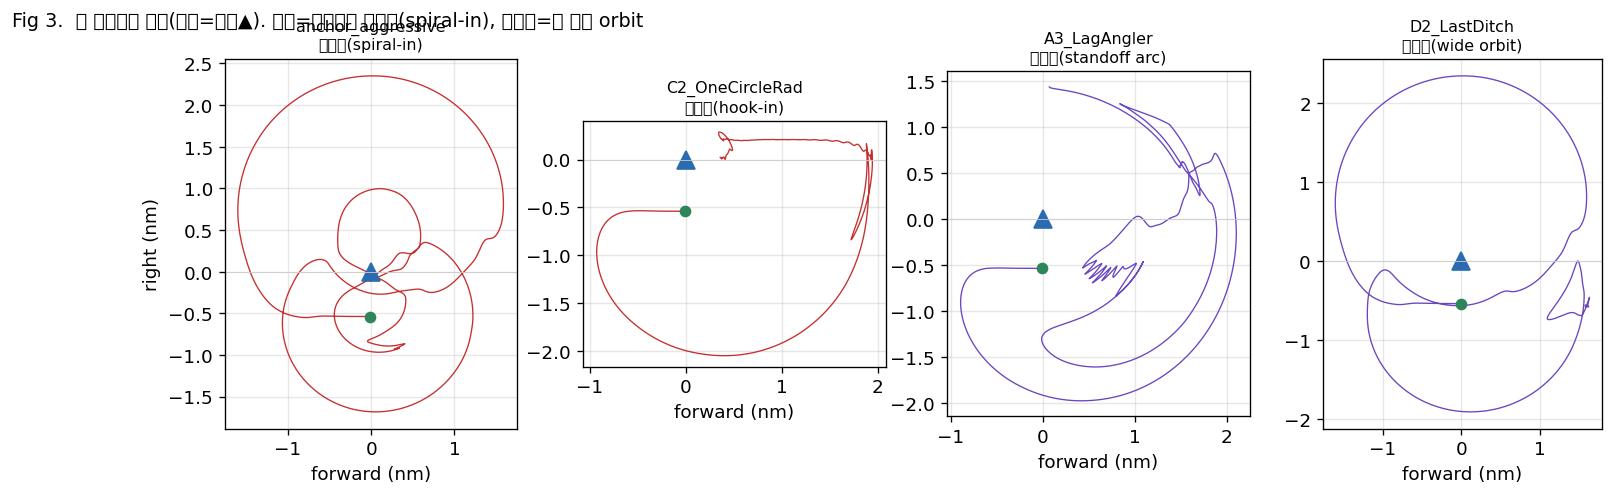
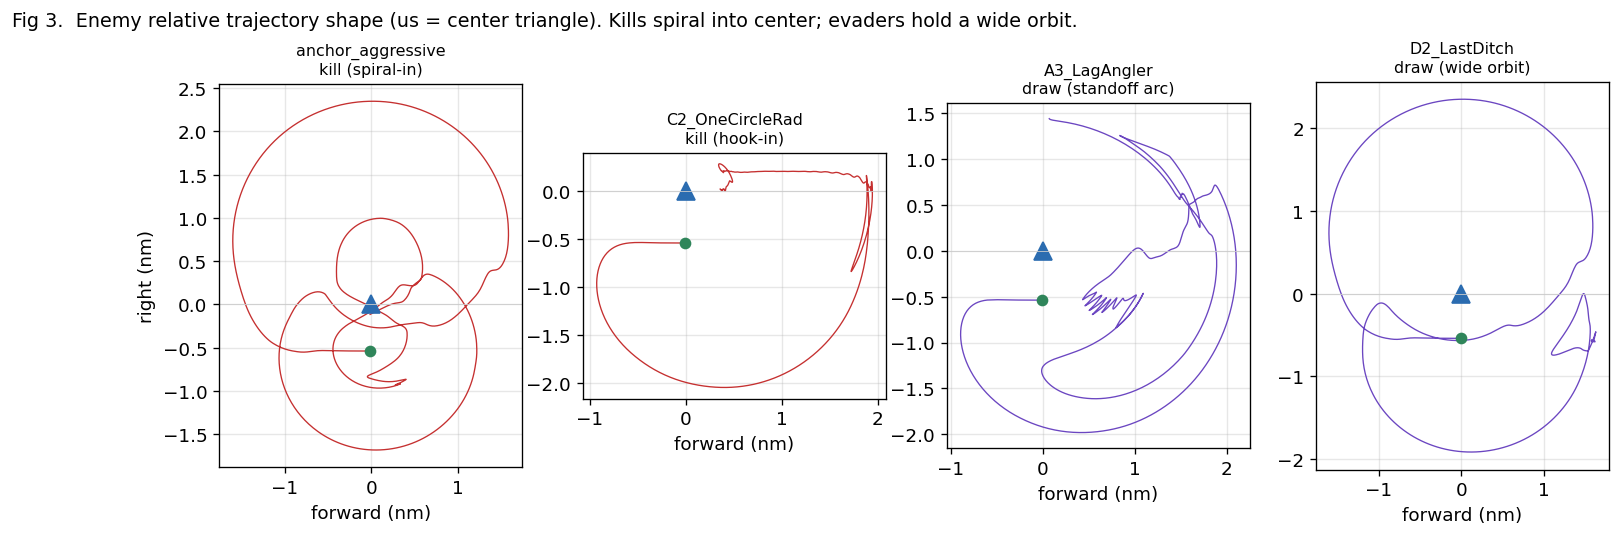
@ docs(victory): 독트린 사전·ADAPTIVE BT·cost 설계·실행 아키텍처 + 영어 그림/캡션
- §4.2.1 독트린 사전: 14개 BFM tactic 각각의 setpoint 공식(heading/속도/고도)·근거·선택조건.
- §4.2.2 ADAPTIVE BT: 5상황 soft 멤버십 수식 + virtual-point 블렌딩 + 상황별 동작 직관.
- §4.2.3 cost 설계: V=wez_margin−their_margin+0.3·energy, zero-sum 차의 이유, J_s 분해.
- §10 실행 아키텍처: runmatch 다중-rate 루프(120/20/10/60Hz), 한 틱 데이터흐름,
  우리정책(tactic_fn1)/적BT(tactic_fn2)의 자리.
- 그림 8개 라벨·제목·주석 전부 영어로 재생성(한글 tofu 제거) + 마크다운 캡션 영어화.
- 섹션 번호 정리(배경+관련연구=§2, 충돌 제거) + TOC 갱신.

@

diff --git a/tools/make_paper_figures.py b/tools/make_paper_figures.py
@@ -1,4 +1,4 @@
-"""논문 그림 생성 — docs/figures/ 에 fig1~fig8 PNG. 실데이터(궤적·D2시퀀스·결과)+스키매틱(구조·기하·ETM·deadlock).
+"""Paper figures — docs/figures/ fig1~fig8 PNG. Real-data(trajectory/D2-seq/results)+schematic. All labels in English.
 
 usage: python tools/make_paper_figures.py
 """
@@ -8,7 +8,7 @@ warnings.filterwarnings("ignore")
 import matplotlib
 matplotlib.use("Agg")
 import matplotlib.pyplot as plt
-from matplotlib.patches import FancyArrowPatch, FancyBboxPatch, Wedge, Circle, Arc
+from matplotlib.patches import FancyArrowPatch, FancyBboxPatch, Wedge, Arc
 import numpy as np
 
 HERE = os.path.dirname(os.path.dirname(os.path.abspath(__file__)))
@@ -19,135 +19,118 @@ for p in ("bt", "control", "engine"):
     sys.path.insert(0, os.path.join(NME, p))
 sys.path.insert(0, os.path.join(HERE, "tools"))
 
-plt.rcParams.update({"font.size": 11, "axes.grid": True, "grid.alpha": 0.3,
-                     "figure.dpi": 120, "savefig.bbox": "tight"})
+plt.rcParams.update({"font.size": 11, "font.family": "DejaVu Sans", "axes.grid": True,
+                     "grid.alpha": 0.3, "figure.dpi": 120, "savefig.bbox": "tight"})
 BLUE, RED, GREEN, ORANGE, PURPLE = "#2b6cb0", "#c53030", "#2f855a", "#dd6b20", "#6b46c1"
 
 
-# ─────────────────────────────────────────────────────────────────────────────
 def fig1_architecture():
-    """Fig 1 — 4계층 정책 아키텍처 블록다이어그램."""
     fig, ax = plt.subplots(figsize=(11, 4.2)); ax.axis("off"); ax.grid(False)
     ax.set_xlim(0, 11); ax.set_ylim(0, 4.2)
     boxes = [
-        (0.2, "관측 obs\n(상대기하·에너지)", "#e2e8f0"),
-        (2.1, "① 상황분류\n궤적 형상\n(reopen·aa_min·rmin)", "#bee3f8"),
-        (4.2, "② 독트린\nBFM tactic\n(pursuit/circle/ETM…)", "#c6f6d5"),
-        (6.4, "③ guidance\nsetpoint\n(ψ*, h*, V*)", "#fefcbf"),
-        (8.5, "④ autopilot\nLQR / INDI", "#fed7d7"),
+        (0.2, "Observation\n(rel. geometry,\nenergy)", "#e2e8f0"),
+        (2.1, "(1) Situation\ntrajectory shape\n(reopen, aa_min, rmin)", "#bee3f8"),
+        (4.2, "(2) Doctrine\nBFM tactic\n(pursuit/circle/ETM)", "#c6f6d5"),
+        (6.4, "(3) Guidance\nsetpoint\n(psi*, h*, V*)", "#fefcbf"),
+        (8.5, "(4) Autopilot\nLQR / INDI", "#fed7d7"),
     ]
     for x, t, c in boxes:
-        ax.add_patch(FancyBboxPatch((x, 1.5), 1.7, 1.4, boxstyle="round,pad=0.05",
-                                    fc=c, ec="#444", lw=1.3))
+        ax.add_patch(FancyBboxPatch((x, 1.5), 1.7, 1.4, boxstyle="round,pad=0.05", fc=c, ec="#444", lw=1.3))
         ax.text(x + 0.85, 2.2, t, ha="center", va="center", fontsize=9.5)
     for x in (1.9, 4.0, 6.2, 8.3):
         ax.add_patch(FancyArrowPatch((x, 2.2), (x + 0.2, 2.2), arrowstyle="-|>", mutation_scale=16, color="#444"))
-    # physics + judge
     ax.add_patch(FancyBboxPatch((8.5, 0.1), 2.3, 1.0, boxstyle="round,pad=0.05", fc="#e9d8fd", ec="#444", lw=1.3))
-    ax.text(9.65, 0.6, "JSBSim 물리 120Hz\n→ judge(WEZ: ATA<12° &\n500–3000ft → DAMAGE)", ha="center", va="center", fontsize=8.5)
+    ax.text(9.65, 0.6, "JSBSim physics 120Hz\n-> judge (WEZ: ATA<12 deg &\n500-3000ft -> DAMAGE)", ha="center", va="center", fontsize=8.5)
     ax.add_patch(FancyArrowPatch((9.6, 1.5), (9.6, 1.15), arrowstyle="-|>", mutation_scale=16, color="#444"))
     ax.add_patch(FancyArrowPatch((8.5, 0.6), (0.6, 0.6), arrowstyle="-|>", mutation_scale=16, color=BLUE, ls="--"))
-    ax.text(4.5, 0.35, "feedback (다음 obs)", color=BLUE, fontsize=8.5, ha="center")
-    ax.set_title("Fig 1.  설명가능 BT 정책의 4계층 구조", fontsize=12, loc="left")
+    ax.text(4.5, 0.35, "feedback (next obs)", color=BLUE, fontsize=8.5, ha="center")
+    ax.set_title("Fig 1.  Four-layer explainable BT policy", fontsize=12, loc="left")
     fig.savefig(os.path.join(FIG, "fig1_architecture.png")); plt.close(fig)
 
 
 def fig2_wez_geometry():
-    """Fig 2 — 교전 기하: ATA, AA, LOS, WEZ cone."""
     fig, ax = plt.subplots(figsize=(7.2, 5.2)); ax.set_aspect("equal")
     ax.set_xlim(-1, 9); ax.set_ylim(-1, 7)
-    # ego at origin heading up-right
     ego = np.array([1.0, 1.0]); enm = np.array([6.0, 5.0])
-    ehead = np.array([0.85, 0.53]); ehead /= np.linalg.norm(ehead)        # ego velocity
-    thead = np.array([-0.2, 0.98]); thead /= np.linalg.norm(thead)        # enm velocity
+    ehead = np.array([0.85, 0.53]); ehead /= np.linalg.norm(ehead)
+    thead = np.array([-0.2, 0.98]); thead /= np.linalg.norm(thead)
     los = enm - ego; losn = los / np.linalg.norm(los)
     ax.plot([ego[0], ego[0] + 2.2*ehead[0]], [ego[1], ego[1] + 2.2*ehead[1]], color=BLUE, lw=2)
-    ax.annotate("우리 속도벡터", ego + 2.3*ehead, color=BLUE, fontsize=9)
+    ax.annotate("our velocity", ego + 2.3*ehead, color=BLUE, fontsize=9)
     ax.plot([enm[0], enm[0] + 2.0*thead[0]], [enm[1], enm[1] + 2.0*thead[1]], color=RED, lw=2)
-    ax.annotate("적 속도벡터", enm + 2.0*thead + np.array([-1.4, 0.1]), color=RED, fontsize=9)
+    ax.annotate("enemy velocity", enm + 2.0*thead + np.array([-1.6, 0.1]), color=RED, fontsize=9)
     ax.plot([ego[0], enm[0]], [ego[1], enm[1]], color="#444", ls="--", lw=1.3)
-    ax.annotate("LOS (시선)", (ego+enm)/2 + np.array([0.1, -0.5]), fontsize=9, color="#444")
-    # WEZ cone from ego (±12° around velocity)
+    ax.annotate("LOS (line of sight)", (ego+enm)/2 + np.array([0.1, -0.5]), fontsize=9, color="#444")
     a0 = math.degrees(math.atan2(ehead[1], ehead[0]))
     ax.add_patch(Wedge(ego, 7.5, a0-12, a0+12, fc=GREEN, alpha=0.15))
-    ax.add_patch(Wedge(ego, 0.6, a0-12, a0+12, fc=GREEN, alpha=0.0, ec=GREEN))
-    ax.annotate("WEZ cone\nATA<12°", ego + 4.5*ehead + np.array([-0.2, 1.0]), color=GREEN, fontsize=9)
-    # ATA angle arc
+    ax.annotate("WEZ cone\nATA<12 deg", ego + 4.5*ehead + np.array([-0.2, 1.0]), color=GREEN, fontsize=9)
     ax.add_patch(Arc(ego, 2.0, 2.0, angle=0, theta1=a0, theta2=math.degrees(math.atan2(losn[1], losn[0])), color=BLUE))
     ax.text(ego[0]+1.2, ego[1]+0.9, "ATA", color=BLUE, fontsize=10)
-    # AA at enm (angle off enm tail to LOS)
-    ta = math.degrees(math.atan2(-thead[1], -thead[0]))
-    la = math.degrees(math.atan2(-losn[1], -losn[0]))
+    ta = math.degrees(math.atan2(-thead[1], -thead[0])); la = math.degrees(math.atan2(-losn[1], -losn[0]))
     ax.add_patch(Arc(enm, 1.6, 1.6, angle=0, theta1=min(ta, la), theta2=max(ta, la), color=RED))
     ax.text(enm[0]-1.6, enm[1]-0.3, "AA", color=RED, fontsize=10)
     ax.plot(*ego, "^", color=BLUE, ms=13); ax.plot(*enm, "^", color=RED, ms=13)
-    ax.text(ego[0]-0.1, ego[1]-0.5, "우리(ego)", color=BLUE, fontsize=9, ha="center")
-    ax.text(enm[0]+0.1, enm[1]+0.5, "적(enm)", color=RED, fontsize=9, ha="center")
-    ax.set_title("Fig 2.  교전 기하 — ATA(antenna train), AA(aspect), LOS, WEZ", fontsize=11.5, loc="left")
+    ax.text(ego[0]-0.1, ego[1]-0.5, "ego (us)", color=BLUE, fontsize=9, ha="center")
+    ax.text(enm[0]+0.1, enm[1]+0.5, "enm (enemy)", color=RED, fontsize=9, ha="center")
+    ax.set_title("Fig 2.  Engagement geometry - ATA, AA, LOS, WEZ", fontsize=11.5, loc="left")
     ax.set_xticks([]); ax.set_yticks([]); ax.grid(False)
     fig.savefig(os.path.join(FIG, "fig2_wez_geometry.png")); plt.close(fig)
 
 
 def fig5_etm_concept():
-    """Fig 5 — ETM: 현재위치 조준(lag) vs 예측 호 조준(앞지름)."""
     fig, ax = plt.subplots(figsize=(7.2, 4.6)); ax.set_aspect("equal")
     ego = np.array([0.0, 0.0])
-    th = np.linspace(-0.3, 1.5, 60); R = 3.0
-    cx, cy = 2.0, 3.2
+    th = np.linspace(-0.3, 1.5, 60); R = 3.0; cx, cy = 2.0, 3.2
     arc = np.stack([cx + R*np.cos(th + 3.6), cy + R*np.sin(th + 3.6)], 1)
-    ax.plot(arc[:, 0], arc[:, 1], color=RED, lw=2, label="적 등선회 호(예측)")
+    ax.plot(arc[:, 0], arc[:, 1], color=RED, lw=2, label="enemy coordinated-turn arc (predicted)")
     now = arc[15]; fut = arc[40]
-    ax.plot(*now, "o", color=RED, ms=10); ax.annotate("적 현재", now+np.array([0.1, -0.4]), color=RED, fontsize=9)
-    ax.plot(*fut, "o", color=ORANGE, ms=10); ax.annotate("적 τ초 뒤(ETM)", fut+np.array([0.1, 0.2]), color=ORANGE, fontsize=9)
-    ax.plot(*ego, "^", color=BLUE, ms=14); ax.annotate("우리", ego+np.array([-0.1, -0.4]), color=BLUE, fontsize=9, ha="center")
+    ax.plot(*now, "o", color=RED, ms=10); ax.annotate("enemy now", now+np.array([0.1, -0.4]), color=RED, fontsize=9)
+    ax.plot(*fut, "o", color=ORANGE, ms=10); ax.annotate("enemy at t+tau (ETM)", fut+np.array([0.1, 0.2]), color=ORANGE, fontsize=9)
+    ax.plot(*ego, "^", color=BLUE, ms=14); ax.annotate("us", ego+np.array([-0.1, -0.4]), color=BLUE, fontsize=9, ha="center")
     ax.add_patch(FancyArrowPatch(ego, now, arrowstyle="-|>", mutation_scale=15, color="#888", ls="--"))
-    ax.text(0.6, 1.2, "현재위치 조준\n→ 닫는 사이 적 빠져나감(lag)", color="#888", fontsize=8.5)
+    ax.text(0.5, 1.2, "aim at current pos\n-> enemy escapes (lag)", color="#888", fontsize=8.5)
     ax.add_patch(FancyArrowPatch(ego, fut, arrowstyle="-|>", mutation_scale=15, color=BLUE, lw=2))
-    ax.text(2.0, 0.6, "ETM: 예측위치 조준\n→ 회피 앞지름", color=BLUE, fontsize=8.5)
+    ax.text(2.0, 0.6, "ETM: aim at predicted pos\n-> leads the evasion", color=BLUE, fontsize=8.5)
     ax.set_xlim(-1.5, 6); ax.set_ylim(-0.5, 6.5); ax.set_xticks([]); ax.set_yticks([]); ax.grid(False)
-    ax.set_title("Fig 5.  ETM — 적 궤적 예측으로 회피를 앞지르는 조준", fontsize=11.5, loc="left")
+    ax.set_title("Fig 5.  ETM - lead the evasion via enemy trajectory prediction", fontsize=11.5, loc="left")
     fig.savefig(os.path.join(FIG, "fig5_etm_concept.png")); plt.close(fig)
 
 
 def fig8_deadlock():
-    """Fig 8 — 관측-행동 deadlock 타임라인."""
     fig, ax = plt.subplots(figsize=(10, 3.6)); ax.set_xlim(0, 200); ax.set_ylim(0, 3)
     ax.axvspan(0, 40, color=BLUE, alpha=0.08); ax.axvspan(40, 200, color=GREEN, alpha=0.06)
-    ax.text(20, 2.7, "관측 구간\n(유형 식별 ≈40s 필요)", ha="center", fontsize=9, color=BLUE)
-    ax.text(120, 2.7, "행동 구간", ha="center", fontsize=9, color=GREEN)
-    # action window for D2
+    ax.text(20, 2.7, "observation window\n(type ID needs ~40s)", ha="center", fontsize=9, color=BLUE)
+    ax.text(120, 2.7, "action window", ha="center", fontsize=9, color=GREEN)
     ax.add_patch(FancyBboxPatch((2, 1.4), 28, 0.5, boxstyle="round,pad=0.02", fc=ORANGE, alpha=0.5, ec=ORANGE))
-    ax.text(16, 1.65, "D2 승리 창 (t=0 머지 필요)", ha="center", fontsize=8.5)
-    ax.axvline(40, color="#444", ls="--"); ax.text(41, 0.6, "t≈40s: 유형 식별 가능\n(but 행동 창 이미 닫힘)", fontsize=8.5)
+    ax.text(16, 1.65, "D2 win window (needs t=0 merge)", ha="center", fontsize=8.5)
+    ax.axvline(40, color="#444", ls="--"); ax.text(41, 0.55, "t~40s: type identifiable\n(but action window already closed)", fontsize=8.5)
     ax.add_patch(FancyArrowPatch((40, 1.0), (15, 1.4), arrowstyle="-|>", mutation_scale=14, color=RED, ls=":"))
-    ax.text(60, 0.3, "deadlock: 행동하려면 t=0에 유형을 알아야 하고, 알려면 관측해야 하는데, 관측하면 창이 닫힌다", fontsize=9, color=RED)
-    ax.set_yticks([]); ax.set_xlabel("교전 시각 t (s)")
-    ax.set_title("Fig 8.  블라인드 deadlock — D2 승리 창과 식별 지연의 충돌(Nash 천장=16/17)", fontsize=11.5, loc="left")
+    ax.text(52, 0.25, "deadlock: to act you must know the type at t=0; to know it you must observe; observing closes the window", fontsize=8.5, color=RED)
+    ax.set_yticks([]); ax.set_xlabel("engagement time t (s)")
+    ax.set_title("Fig 8.  Blind observe-act deadlock - D2 win window vs ID delay (Nash ceiling = 16/17)", fontsize=11, loc="left")
     fig.savefig(os.path.join(FIG, "fig8_deadlock.png")); plt.close(fig)
 
 
 def fig7_results():
-    """Fig 7 — 17개 결과 (적 HP, 우리 HP=100)."""
     opp = ["defensiv", "ace", "B1", "B2", "C1", "C2", "C3", "D1", "E1", "E2",
-           "simple", "aggress", "A1", "A2", "D3", "A3★", "D2★"]
+           "simple", "aggress", "A1", "A2", "D3", "A3*", "D2*"]
     ehp = [0, 0, 0, 0, 0, 0, 0, 0, 0, 0, 93, 93, 93, 81, 99, 95, 94]
-    res = ["격추"]*10 + ["판정"]*5 + ["판정", "판정"]
-    colors = [RED if r == "격추" else ORANGE for r in res]
+    res = ["K"]*10 + ["J"]*5 + ["J", "J"]
+    colors = [RED if r == "K" else ORANGE for r in res]
     colors[-2] = PURPLE; colors[-1] = PURPLE
     fig, ax = plt.subplots(figsize=(11, 4.0))
     x = np.arange(len(opp))
-    ax.bar(x, [100]*len(opp), color=BLUE, alpha=0.25, label="우리 HP=100(무손상)")
-    ax.bar(x, ehp, color=colors, label="적 잔여 HP")
+    ax.bar(x, [100]*len(opp), color=BLUE, alpha=0.25, label="our HP = 100 (undamaged)")
+    ax.bar(x, ehp, color=colors, label="enemy remaining HP")
     for i, h in enumerate(ehp):
         ax.text(i, h+2, f"{h}", ha="center", fontsize=7.5)
     ax.set_xticks(x); ax.set_xticklabels(opp, rotation=45, ha="right", fontsize=8)
-    ax.set_ylabel("HP"); ax.set_ylim(0, 108)
-    ax.legend(loc="upper left", fontsize=9)
-    ax.set_title("Fig 7.  결과 — 17/17(적 식별), 우리 무손상. 격추10(적HP0)·판정7·구회피자(A3·D2)★ 파훼", fontsize=11, loc="left")
+    ax.set_ylabel("HP"); ax.set_ylim(0, 108); ax.legend(loc="upper left", fontsize=9)
+    ax.set_title("Fig 7.  Results (intel mode) - 17/17, undamaged. Kills 10 (enemy HP 0), Judged 7, evaders A3/D2* defeated",
+                 fontsize=10.5, loc="left")
     fig.savefig(os.path.join(FIG, "fig7_results.png")); plt.close(fig)
 
 
-# ── 실데이터 그림 ────────────────────────────────────────────────────────────
 def _run_traj(opp_name, tac_fn, dur=120.0):
     from exp_e22_chaseforce import _opp
     from lqr import GainScheduledLQR
@@ -163,8 +146,7 @@ def _run_traj(opp_name, tac_fn, dur=120.0):
     def fn(o):
         ob = compute_obs(p1, p2)
         en, ee, _ = _ned(p1, lat0, lon0, a0); on, oe, _ = _ned(p2, lat0, lon0, a0)
-        dx, dy = on-en, oe-ee
-        h = math.radians(ob.ego_psi_deg)
+        dx, dy = on-en, oe-ee; h = math.radians(ob.ego_psi_deg)
         rec["rx"].append((dx*math.cos(-h) - dy*math.sin(-h)) / 6076.0)
         rec["ry"].append((dx*math.sin(-h) + dy*math.cos(-h)) / 6076.0)
         rec["t"].append(len(rec["t"])*0.1); rec["d"].append(ob.distance_ft)
@@ -177,17 +159,13 @@ def _run_traj(opp_name, tac_fn, dur=120.0):
 
 
 def fig3_shapes():
-    """Fig 3 — 상대궤적 형상: 격추(spiral-in) vs 무승부(orbit). 실데이터."""
     from exp_e27_adaptive_subset import AdaptivePolicy
     from exp_e7_champion import _train
     from exp_e10_unified import DS_DA
     rf, tac = _train(DS_DA)
-    base = AdaptivePolicy(rf, tac, corrections=True)
-    cases = [("anchor_aggressive", "격추형(spiral-in)", RED),
-             ("C2_OneCircleRad", "격추형(hook-in)", RED),
-             ("A3_LagAngler", "무승부(standoff arc)", PURPLE),
-             ("D2_LastDitch", "무승부(wide orbit)", PURPLE)]
-    fig, axes = plt.subplots(1, 4, figsize=(15, 4.0))
+    cases = [("anchor_aggressive", "kill (spiral-in)", RED), ("C2_OneCircleRad", "kill (hook-in)", RED),
+             ("A3_LagAngler", "draw (standoff arc)", PURPLE), ("D2_LastDitch", "draw (wide orbit)", PURPLE)]
+    fig, axes = plt.subplots(1, 4, figsize=(15, 4.2))
     for ax, (opp, lab, c) in zip(axes, cases):
         b = AdaptivePolicy(rf, tac, corrections=True)
         rec, _ = _run_traj(opp, lambda ob, p1, p2, b=b: b.select(p1, p2), dur=120)
@@ -196,19 +174,18 @@ def fig3_shapes():
         ax.set_title(f"{opp}\n{lab}", fontsize=9.5); ax.set_aspect("equal"); ax.axhline(0, color="#ccc", lw=0.5)
         ax.set_xlabel("forward (nm)")
     axes[0].set_ylabel("right (nm)")
-    fig.suptitle("Fig 3.  적 상대궤적 형상(우리=중심▲). 격추=중심으로 감겨듦(spiral-in), 무승부=큰 반경 orbit", fontsize=11.5, x=0.01, ha="left")
+    fig.suptitle("Fig 3.  Enemy relative trajectory shape (us = center triangle). "
+                 "Kills spiral into center; evaders hold a wide orbit.", fontsize=11.5, x=0.01, ha="left", y=1.02)
     fig.savefig(os.path.join(FIG, "fig3_shapes.png")); plt.close(fig)
 
 
 def fig6_d2_sequence():
-    """Fig 6 — D2 승리 시퀀스 6-phase 동안 거리·고도. 실데이터."""
     import guidance
     from tactic import Tactic as T
     guidance.ETM_TAU = 2.0
     SEQ = [T.LEAD_PURSUIT, T.VERTICAL_PURSUIT, T.SCISSORS, T.GUN_TRACK, T.LAG_PURSUIT, T.ETM_TRACK]
     names = ["LEAD", "VERTICAL", "SCISSORS", "GUN", "LAG", "ETM"]
-    DUR, N = 180.0, 6
-    st = {"t": 0.0}
+    DUR, N = 180.0, 6; st = {"t": 0.0}
     def fn(ob, p1, p2):
         st["t"] += 0.1
         if ob.ego_alt_ft < 2500: return T.CLIMB
@@ -216,22 +193,22 @@ def fig6_d2_sequence():
     rec, res = _run_traj("D2_LastDitch", fn, dur=DUR)
     fig, ax = plt.subplots(2, 1, figsize=(11, 5.2), sharex=True)
     ax[0].plot(rec["t"], rec["d"], color=BLUE, lw=1.4); ax[0].axhspan(500, 3000, color=GREEN, alpha=0.12)
-    ax[0].set_ylabel("거리 (ft)"); ax[0].text(2, 3300, "WEZ 거리권", color=GREEN, fontsize=8)
-    ax[1].plot(rec["t"], rec["ua"], color=BLUE, lw=1.4, label="우리 고도")
-    ax[1].plot(rec["t"], rec["ea"], color=RED, lw=1.4, label="D2 고도")
-    ax[1].set_ylabel("고도 (ft)"); ax[1].set_xlabel("t (s)"); ax[1].legend(fontsize=9)
+    ax[0].set_ylabel("range (ft)"); ax[0].text(2, 3300, "WEZ range band", color=GREEN, fontsize=8)
+    ax[1].plot(rec["t"], rec["ua"], color=BLUE, lw=1.4, label="our altitude")
+    ax[1].plot(rec["t"], rec["ea"], color=RED, lw=1.4, label="D2 altitude")
+    ax[1].set_ylabel("altitude (ft)"); ax[1].set_xlabel("t (s)"); ax[1].legend(fontsize=9)
     for i, nm in enumerate(names):
         x = i*DUR/N
         for a in ax: a.axvline(x, color="#bbb", ls=":", lw=0.8)
         ax[0].text(x+1, ax[0].get_ylim()[1]*0.93, nm, fontsize=8, color=PURPLE)
-    fig.suptitle(f"Fig 6.  D2 승리 시퀀스 6-phase — 거리·고도 (결과 HP 100:{res.health2:.0f}, 무피해 판정승)", fontsize=11.5, x=0.01, ha="left")
+    fig.suptitle(f"Fig 6.  D2 winning 6-phase sequence - range & altitude (result HP 100:{res.health2:.0f}, undamaged judged win)",
+                 fontsize=11.5, x=0.01, ha="left", y=0.98)
     fig.savefig(os.path.join(FIG, "fig6_d2_sequence.png")); plt.close(fig)
 
 
 def fig4_separability():
-    """Fig 4 — 형상 특징 분리성: {A3,D2} vs 15 (reopen, aa_min). 실데이터."""
     from exp_e48_type_features import feats, FULL, DRAWS
-    from exp_e27_adaptive_subset import AdaptivePolicy
+    from exp_e27_adaptive_subset import AdaptivePolicy  # noqa
     from exp_e7_champion import _train
     from exp_e10_unified import DS_DA
     from lqr import GainScheduledLQR
@@ -243,23 +220,25 @@ def fig4_separability():
     for opp in FULL:
         f = feats(opp, rf, tac, gs, cfg, 50.0)
         d = opp in DRAWS
-        ax.scatter(f["reopen"], f["aa_min"], s=110 if d else 60,
+        ax.scatter(f["reopen"], f["aa_min"], s=120 if d else 60,
                    c=(PURPLE if d else "#90cdf4"), edgecolors="#333", zorder=3 if d else 2)
         if d or opp.startswith(("anchor", "A3", "D2")):
             ax.annotate(opp.replace("anchor_", "").replace("_", "")[:7], (f["reopen"], f["aa_min"]),
                         fontsize=7.5, xytext=(4, 4), textcoords="offset points")
     ax.axvline(3000, color=PURPLE, ls="--", alpha=0.6); ax.axhline(30, color=RED, ls="--", alpha=0.6)
-    ax.text(800, 33, "A3: reopen<3000", color=PURPLE, fontsize=8.5)
-    ax.text(8200, 33, "D2: aa_min>30 ∧ rmin>3000", color=RED, fontsize=8.5)
-    ax.set_xlabel("reopen (ft) — 최접근 후 재이탈량"); ax.set_ylabel("aa_min (deg) — 최소 aspect")
-    ax.set_title("Fig 4.  형상 특징 분리성 — 무승부 회피자(보라★)가 15승 적과 분리(거짓양성 0)", fontsize=11, loc="left")
+    ax.text(700, 33, "A3: reopen<3000", color=PURPLE, fontsize=8.5)
+    ax.text(7800, 33, "D2: aa_min>30 & rmin>3000", color=RED, fontsize=8.5)
+    ax.set_xlabel("reopen (ft) - range re-opening after closest approach")
+    ax.set_ylabel("aa_min (deg) - minimum aspect angle")
+    ax.set_title("Fig 4.  Shape-feature separability - draw evaders (purple star) split from 15 wins (false positive 0)",
+                 fontsize=10.5, loc="left")
     fig.savefig(os.path.join(FIG, "fig4_separability.png")); plt.close(fig)
 
 
 if __name__ == "__main__":
-    print("스키매틱 그림..."); fig1_architecture(); fig2_wez_geometry(); fig5_etm_concept(); fig8_deadlock(); fig7_results()
-    print("실데이터 그림(엔진 실행)...")
+    print("schematic figs..."); fig1_architecture(); fig2_wez_geometry(); fig5_etm_concept(); fig8_deadlock(); fig7_results()
+    print("real-data figs (engine)...")
     fig3_shapes(); print("  fig3 ok")
     fig4_separability(); print("  fig4 ok")
     fig6_d2_sequence(); print("  fig6 ok")
-    print("완료:", FIG); print(os.listdir(FIG))
+    print("done:", FIG); print(os.listdir(FIG))
